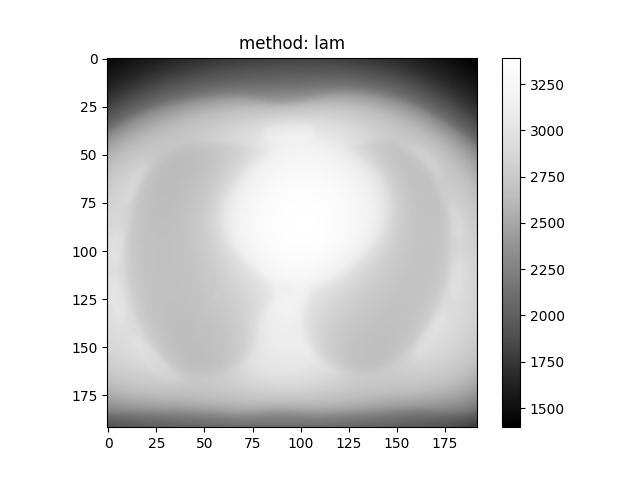
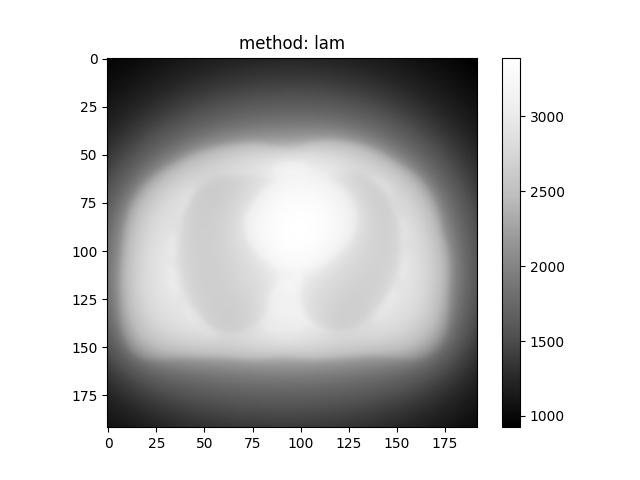
n2 et n3

diff --git a/TP2_ThomasC_SimonG_LaurentE/recon.py b/TP2_ThomasC_SimonG_LaurentE/recon.py
@@ -10,6 +10,8 @@ import numpy as np
 import time
 import matplotlib.pyplot as plt
 
+from scipy.signal.windows import lanczos
+
 # local files
 import geo as geo
 import util as util
@@ -45,9 +47,6 @@ def laminogram():
     # initialiser une image reconstruite
     image = np.zeros((geo.nbvox, geo.nbvox))
 
-    mid_ray = geo.nbpix/2 # indice du rayon central
-    mid_vox = geo.nbvox/2 # indice du voxel central en x et en y
-
     # "etaler" les projections sur l'image
     # ceci sera fait de façon "voxel-driven"
     # pour chaque voxel, trouver la contribution du signal reçu
@@ -55,7 +54,9 @@ def laminogram():
         print("working on image column: "+str(j+1)+"/"+str(geo.nbvox))
         for i in range(geo.nbvox): # lignes de l'image
             for a in range(0, len(angles), 1):
-
+                            
+                mid_ray = geo.nbpix/2 # indice du rayon central
+                mid_vox = geo.nbvox/2 # indice du voxel central en x et en y
                 angle = angles[a]
                 proj = sinogram[a]
 
@@ -92,7 +93,7 @@ def laminogram():
                     # Si les angles sont opposés, le décalage doit être inversé 
                     # (sens contraire de t dans la figure 2 de l'énoncé)
 
-                    n_ray_shift = norm_to_center * geo.pixsize/geo.voxsize
+                    n_ray_shift = norm_to_center * geo.voxsize / geo.pixsize # convertis n_voxels à n_pixels/n_rays
 
                     if int(angle_to_center) == int(angle):
                         factor = 1
@@ -108,7 +109,6 @@ def laminogram():
 
                 image[i, j] += proj[ray_index]
 
-
     util.saveImage(image, "lam")
 
 
@@ -121,7 +121,7 @@ def backproject():
     image = np.zeros((geo.nbvox, geo.nbvox))
     
     ### option filtrer ###
-    CTfilter.filterSinogram(sinogram)
+    sinogram = CTfilter.filterSinogram(sinogram)
     ######
     
     # "etaler" les projections sur l'image
@@ -130,46 +130,123 @@ def backproject():
     for j in range(geo.nbvox): # colonnes de l'image
         print("working on image column: "+str(j+1)+"/"+str(geo.nbvox))
         for i in range(geo.nbvox): # lignes de l'image
-            for a in range(len(angles)):
-                pass
-                #votre code ici
-               #pas mal la même chose que prédédemment
-            #mais avec un sinogramme qui aura été préalablement filtré
-    
+            for a in range(0, len(angles), 1):
+                            
+                mid_ray = geo.nbpix/2 # indice du rayon central
+                mid_vox = geo.nbvox/2 # indice du voxel central en x et en y
+                angle = angles[a]
+                proj = sinogram[a]
+
+                # déterminer si le rayon est dirigé vers la gauche ou la droite
+                # l'algorithme est fait pour les rayons dirigés vers la gauche
+                # on peut corriger à la fin pour les rayons dirigés vers la droite
+                ray_dir = "left" if angle < np.pi else "right"
+
+                # angle entre 0 et pi
+                angle %= np.pi
+
+                # position en voxels relative au centre de la grille de reconstruction
+                current_vox_x = j - mid_vox
+                current_vox_y = mid_vox - i
+
+                # paramètre d'une droite passant par le voxel courant et la pente du rayon actuel
+                m = np.tan(angle + np.pi/2)
+                b = current_vox_y - m * current_vox_x
+
+                # vecteur perpendiculaire à la droite mx+b et allant vers le centre de la grille
+                perp_vector = [m*b/(m**2 + 1), -b/(m**2 + 1)]
+
+                # norme et angle du vecteur perpendiculaire
+                norm_to_center = np.linalg.norm(perp_vector)
+                angle_to_center = np.arctan2(perp_vector[1], perp_vector[0])
+
+                # décalage en pixels (détecteur) à partir du centre du détecteur pour avoir le rayon
+                # croisant le voxel courant
+                if np.isnan(angle_to_center): # si le courant est au centre de la grille, le vecteur est nul
+                    ray_index = mid_ray
+                
+                else: # on ajuste le décalage en fonction de si le vecteur perpendiculaire
+                    # pointe dans la même direction que le l'axe du détecteur ou non
+                    # Si les angles sont opposés, le décalage doit être inversé 
+                    # (sens contraire de t dans la figure 2 de l'énoncé)
+
+                    n_ray_shift = norm_to_center * geo.voxsize / geo.pixsize # convertis n_voxels à n_pixels/n_rays
+
+                    if int(angle_to_center) == int(angle):
+                        factor = 1
+                    else:
+                        factor = -1
+                    
+                    if ray_dir == "right": # si le rayon est dirigé vers la droite (angle initial > pi avant le modulo)
+                                        # on flip l'image dans les deux axes pour garder le même algorithme
+                        i = geo.nbvox - i - 1
+                        j = geo.nbvox - j - 1
+                    
+                    ray_index = int(mid_ray + n_ray_shift * factor)
+
+                image[i, j] += proj[ray_index]
+
     util.saveImage(image, "fbp")
 
+from scipy.interpolate import griddata
 
 ## reconstruire une image TDM en mode retroprojection
 def reconFourierSlice():
     
     [nbprj, angles, sinogram] = readInput()
 
-    # initialiser une image reconstruite, complexe
-    # pour qu'elle puisse contenir sa version FFT d'abord
-    IMAGE = np.zeros((geo.nbvox, geo.nbvox), 'complex')
-    
-    # conteneur pour la FFT du sinogramme
-    SINOGRAM = np.zeros(sinogram.shape, 'complex')
+    sinogram = np.fft.ifftshift(sinogram, axes=1)
+    sinogram = np.fft.fft(sinogram, axis=1)
+    sinogram = np.fft.fftshift(sinogram, axes=1)
 
-    #image reconstruite
-    image = np.zeros((geo.nbvox, geo.nbvox))
-    #votre code ici
-   #ici le défi est de remplir l'IMAGE avec des TF des projections (1D)
-   #au bon angle.
-   #La grille de recon est cartésienne mais le remplissage est cylindrique,
-   #ce qui fait qu'il y aura un bon échantillonnage de IMAGE
-   #au centre et moins bon en périphérie. Un TF inverse de IMAGE vous
-   #donnera l'image recherchée.
-
-   
+    theta = angles
+    s = sinogram.shape[1]
+    r = np.arange(s) - s/2
     
+    R, Theta = np.meshgrid(r, theta)
+    x = R*np.cos(Theta)
+    y = R*np.sin(Theta)
+
+    x_flat = x.flatten()
+    y_flat = y.flatten()
+    v_flat = sinogram.flatten()
+
+    grid_x, grid_y = np.meshgrid(
+        np.arange(-geo.nbvox/2, geo.nbvox/2),
+        np.arange(-geo.nbvox/2, geo.nbvox/2)
+    )
+    
+    IMAGE = griddata(
+        (x_flat, y_flat),
+        v_flat,
+        (grid_x, grid_y),
+        method='cubic',
+        fill_value=1e7,
+    )
+
+    image = np.fft.ifft2(IMAGE)
+    image = np.fft.ifftshift(image)
+    image = np.abs(image)
+
     util.saveImage(image, "fft")
 
 
 ## main ##
 start_time = time.time()
-laminogram()
+#laminogram()
 #backproject()
-#reconFourierSlice()
+
+
+
+## visualiser le sinogramme avant et après filtrage
+# [_, _, sinogram] = readInput()
+# plt.subplot(1, 2, 1)
+# plt.imshow(sinogram, cmap='gray')
+# sinogram = CTfilter.filterSinogram(sinogram)
+# plt.subplot(1, 2, 2)
+# plt.imshow(sinogram, cmap='gray')
+# plt.show()
+
+reconFourierSlice() # on voit que l'image reconstruite est dézoomée, probablement à cause de l'interpolation
 print("--- %s seconds ---" % (time.time() - start_time))
 

diff --git a/TP2_ThomasC_SimonG_LaurentE/test.py b/TP2_ThomasC_SimonG_LaurentE/test.py
@@ -1,0 +1,152 @@
+import math
+
+import matplotlib.pyplot as plt
+import numpy as np
+import scipy.fftpack
+import scipy.interpolate
+import scipy.misc
+import scipy.ndimage.interpolation
+import skimage
+
+S = 256  # Size of target, and resolution of Fourier space
+N = 259  # Number of sinogram exposures (odd number avoids redundant direct opposites)
+
+V = 100  # Range on fft plots
+
+
+# Convenience function
+def sqr(x):
+    return x * x
+
+
+# Return the angle of the i-th (of 0-to-N-1) sinogram exposure in radians.
+def angle(i):
+    return (math.pi * i) / N
+
+
+# Prepare a target image
+x, y = np.meshgrid(np.arange(S) - S / 2, np.arange(S) - S / 2)
+mask = sqr(x) + sqr(y) <= sqr(S / 2 - 10)
+target = np.where(
+    mask,
+    skimage.transform.resize(skimage.data.camera(), (S, S), anti_aliasing=True),
+    np.zeros((S, S)),
+)
+
+plt.figure()
+plt.title("Target")
+plt.imshow(target)
+plt.gray()
+plt.savefig("00_target.png")
+
+# Project the sinogram (ie calculate Radon transform)
+sinogram = np.array(
+    [
+        np.sum(
+            scipy.ndimage.interpolation.rotate(
+                target,
+                np.rad2deg(angle(i)),  # NB rotate takes degrees argument
+                order=3,
+                reshape=False,
+                mode="constant",
+                cval=0.0,
+            ),
+            axis=0,
+        )
+        for i in range(N)
+    ]
+)
+
+plt.figure()
+plt.title("Sinogram")
+plt.imshow(sinogram)
+plt.jet()
+plt.savefig("01_sinogram.png")
+
+# Fourier transform the rows of the sinogram, move the DC component to the row's centre
+sinogram_fft_rows = scipy.fftpack.fftshift(
+    scipy.fftpack.fft(scipy.fftpack.ifftshift(sinogram, axes=1)), axes=1
+)
+
+plt.figure()
+plt.subplot(121)
+plt.title("Sinogram rows FFT (real)")
+plt.imshow(np.real(sinogram_fft_rows), vmin=-V, vmax=V)
+
+plt.subplot(122)
+plt.title("Sinogram rows FFT (imag)")
+plt.imshow(np.imag(sinogram_fft_rows), vmin=-V, vmax=V)
+plt.savefig("02_fft_rows.png")
+
+
+# Coordinates of sinogram FFT-ed rows' samples in 2D FFT space
+a = np.array([angle(i) for i in range(N)])
+r = np.arange(S) - S / 2
+r, a = np.meshgrid(r, a)
+r = r.flatten()
+a = a.flatten()
+srcx = (S / 2) + r * np.cos(a)
+srcy = (S / 2) + r * np.sin(a)
+
+# Coordinates of regular grid in 2D FFT space
+dstx, dsty = np.meshgrid(np.arange(S), np.arange(S))
+dstx = dstx.flatten()
+dsty = dsty.flatten()
+
+plt.figure()
+plt.title("Sinogram samples in 2D FFT (abs)")
+plt.scatter(
+    srcx,
+    srcy,
+    c=np.absolute(sinogram_fft_rows.flatten()),
+    marker=".",
+    edgecolor="none",
+    vmin=-V,
+    vmax=V,
+)
+plt.savefig("03_fft2d.png")
+
+# Let the central slice theorem work its magic!
+# Interpolate the 2D Fourier space grid from the transformed sinogram rows
+fft2 = scipy.interpolate.griddata(
+    (srcy, srcx),
+    sinogram_fft_rows.flatten(),
+    (dsty, dstx),
+    method="cubic",
+    fill_value=0.0,
+).reshape((S, S))
+
+plt.figure()
+plt.suptitle("FFT2 space")
+plt.subplot(221)
+plt.title("Recon (real)")
+plt.imshow(np.real(fft2), vmin=-V, vmax=V)
+plt.subplot(222)
+plt.title("Recon (imag)")
+plt.imshow(np.imag(fft2), vmin=-V, vmax=V)
+
+# Show 2D FFT of target, just for comparison
+expected_fft2 = scipy.fftpack.fftshift(
+    scipy.fftpack.fft2(scipy.fftpack.ifftshift(target))
+)
+
+plt.subplot(223)
+plt.title("Expected (real)")
+plt.imshow(np.real(expected_fft2), vmin=-V, vmax=V)
+plt.subplot(224)
+plt.title("Expected (imag)")
+plt.imshow(np.imag(expected_fft2), vmin=-V, vmax=V)
+plt.savefig("04_expected.png")
+
+# Transform from 2D Fourier space back to a reconstruction of the target
+recon = np.real(
+    scipy.fftpack.fftshift(scipy.fftpack.ifft2(scipy.fftpack.ifftshift(fft2)))
+)
+
+plt.figure()
+plt.title("Reconstruction")
+plt.imshow(recon, vmin=0.0, vmax=1.0)
+plt.gray()
+
+
+plt.savefig("05_reconstruction.png")

diff --git a/TP2_ThomasC_SimonG_LaurentE/CTfilter.py b/TP2_ThomasC_SimonG_LaurentE/CTfilter.py
@@ -13,9 +13,24 @@ import numpy as np
 def filterSinogram(sinogram):
     for i in range(sinogram.shape[0]):
         sinogram[i] = filterLine(sinogram[i])
+    return sinogram
 
 ## filter une ligne (projection) via FFT
 def filterLine(projection):
-    pass
-    # votre code ici
-    # un filtre rampe est suffisant    
+    fft_proj = np.fft.fft(projection)
+    fft_proj = np.fft.fftshift(fft_proj)
+    
+    freqs = np.fft.fftfreq(len(projection))
+
+    # filtre en rampe
+    ramp = np.abs(freqs)
+    ramp = 1 - ramp/np.max(ramp)
+
+    # appliquer le filtre
+    fft_proj = fft_proj*ramp
+
+    # retourner dans l'espace des fréquences
+    fft_proj = np.fft.ifftshift(fft_proj)
+    filtered_proj = np.fft.ifft(fft_proj)
+
+    return np.real(filtered_proj)
